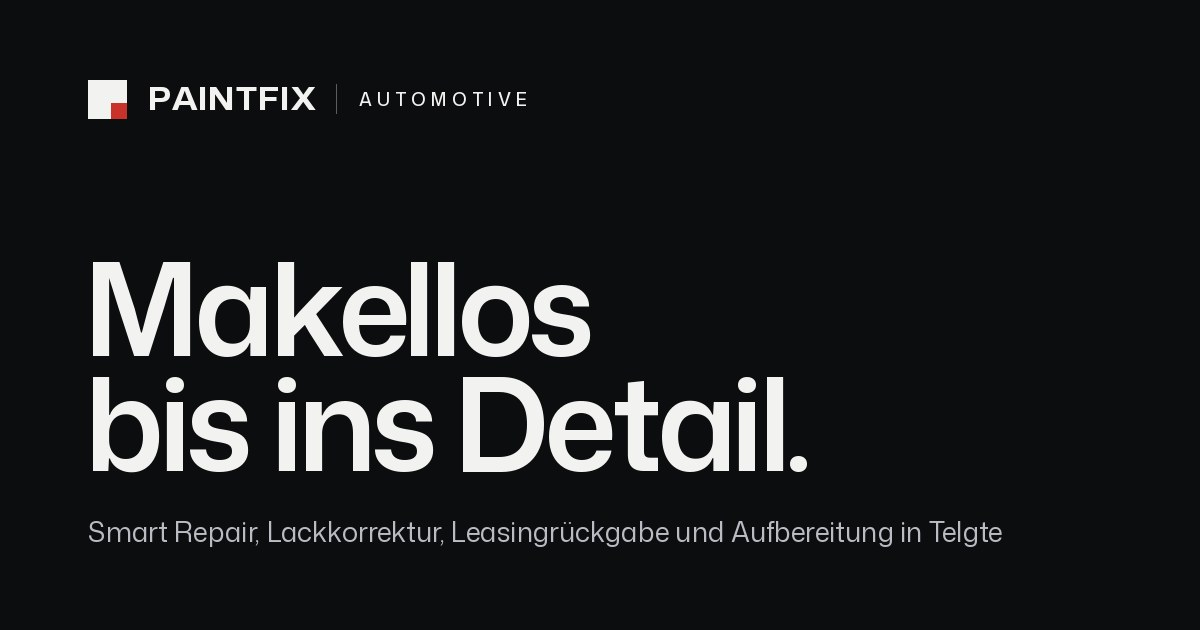
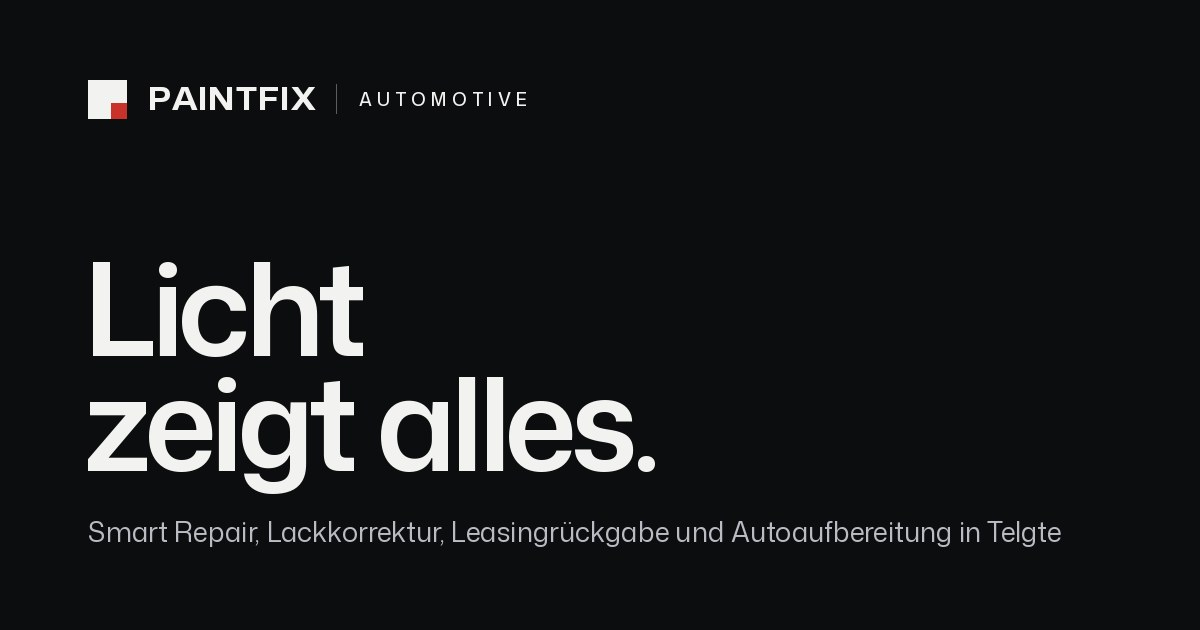
Copy and SEO pass after competitor research (Münster region)
- Use the words customers search for: Autoaufbereitung, Innenreinigung,
  Politur, Klarlack, Schadenkatalog, Nachzahlung, Gebrauchsspuren, Münster
- Meta descriptions cut to about 155 characters, titles sharpened per page
  (Lackkorrektur und Politur, Autoaufbereitung innen und außen, Preise)
- Home: new H1 "Licht zeigt alles." instead of the "Makellos" promise,
  hero text and statement in customer language; share image regenerated
- New FAQs: fingernail test for scratches, what the leasing damage
  catalogue charges, when Smart Repair is not enough, ceramic standzeit,
  what an Autoaufbereitung costs
- Remove claims beyond PaintFix's descriptions (dents in Smart Repair,
  rims in the leasing check, "Glanz über Jahre")
- Aviation: Flugzeugreinigung / aircraft cleaning in titles, shorter
  descriptions, keyword before brand in the home titles
- Test: wait for hydration before filling the request form (flaky race)

Claude-Session: https://claude.ai/code/session_01LGKKViHyALtNtq41SnGiB1

Changed region(s): [[0.0617, 0.6032, 0.6783, 0.7841], [0.0925, 0.3921, 0.4933, 0.573], [0.6475, 0.8143, 0.8942, 0.8746]]

diff --git a/content/leistungen.ts b/content/leistungen.ts
@@ -1,4 +1,5 @@
 import {
+  comboPrice,
   faq,
   focusAreas,
   INSPECT_PRICE,
@@ -68,6 +69,8 @@ export interface CarServicePage {
   media: MediaId;
 }
 
+const aussen = serviceById("aussen");
+const innen = serviceById("innen");
 const politur = serviceById("politur");
 const keramik = serviceById("keramik");
 
@@ -87,7 +90,7 @@ export const carServicePages: ReadonlyArray<CarServicePage> = [
     name: "Smart Repair",
     metaTitle: "Smart Repair in Telgte bei Münster",
     metaDescription:
-      "Smart Repair in Telgte bei Münster: Kratzer, Steinschläge, kleinere Lackschäden und Parkschäden gezielt reparieren, ohne Komplettlackierung. Festpreis nach kostenloser Begutachtung.",
+      "Smart Repair in Telgte bei Münster: Kratzer, Steinschläge und Parkschäden ausbessern, ohne das ganze Bauteil zu lackieren. Festpreis nach Begutachtung.",
     h1: "Smart Repair in Telgte.",
     intro:
       "Ein Kratzer in der Tür, ein Parkschaden an der Stoßstange, ein Steinschlag auf der Haube: Kleine Schäden reparieren wir dort, wo sie sind, statt ganze Bauteile neu zu lackieren. Das spart Zeit und Kosten, und Ihr Fahrzeug behält so viel Originallack wie möglich.",
@@ -106,7 +109,7 @@ export const carServicePages: ReadonlyArray<CarServicePage> = [
         },
         {
           t: "Steinschläge",
-          d: "Abplatzer an Haube und Front, bevor Feuchtigkeit darunter gelangt.",
+          d: "Abplatzer an Haube und Front, bevor darunter Rost ansetzt.",
         },
         {
           t: "Kleinere Lackschäden",
@@ -156,6 +159,10 @@ export const carServicePages: ReadonlyArray<CarServicePage> = [
           a: "Die betroffene Stelle wird fachgerecht geschliffen, gespachtelt, grundiert, lackiert und anschließend poliert. Der Rest des Bauteils bleibt im Originallack.",
         },
         {
+          q: "Wann reicht Smart Repair nicht?",
+          a: "Wenn große Flächen oder ganze Bauteile beschädigt sind, ist eine Lackierung des Bauteils die sauberere Lösung. Ob sich Ihr Schaden punktuell reparieren lässt, sagen wir Ihnen bei der Begutachtung.",
+        },
+        {
           q: "Lohnt sich Smart Repair vor der Leasingrückgabe?",
           a: "Oft ja, denn kleine Schäden werden bei der Rückgabe protokolliert und berechnet. Welche Reparatur sich rechnet, sehen wir bei der Begutachtung.",
         },
@@ -168,8 +175,8 @@ export const carServicePages: ReadonlyArray<CarServicePage> = [
     slug: "lackkorrektur",
     focus: "politur",
     name: "Lackkorrektur",
-    metaTitle: "Lackkorrektur in Telgte bei Münster",
-    metaDescription: `Lackkorrektur in Telgte bei Münster: ein-, zwei- oder dreistufige Politur gegen Kratzer, Hologramme, Waschspuren und matte Stellen, für Tiefenglanz und Farbtiefe. ${politur.dur.replace(/^ca\./, "Etwa")}, ab ${eur(politur.p[0])} Endpreis. Den Festpreis nennen wir nach einer kostenlosen Begutachtung.`,
+    metaTitle: "Lackkorrektur und Politur in Telgte bei Münster",
+    metaDescription: `Auto polieren lassen in Telgte bei Münster: Lackkorrektur gegen Waschkratzer, Hologramme und matten Lack. Ein- bis dreistufig, ab ${eur(politur.p[0])}, ${politur.dur.replace(/^ca\./, "etwa")}.`,
     h1: "Lack\u00ADkorrektur in Telgte.",
     intro:
       "Waschanlagen, falsche Tücher und Jahre auf der Straße hinterlassen feine Kratzer, die in der Sonne als Kreise und Schlieren sichtbar werden. Bei der Lackkorrektur polieren wir den Lack je nach Zustand ein-, zwei- oder dreistufig. So werden Kratzer, Hologramme und Waschspuren deutlich reduziert, und der Lack bekommt Tiefenglanz und Farbtiefe zurück.",
@@ -180,7 +187,7 @@ export const carServicePages: ReadonlyArray<CarServicePage> = [
       items: [
         {
           t: "Waschkratzer und Hologramme",
-          d: "Kreise und Schlieren, die in der Sonne oder unter hellem Licht sichtbar werden, meist von der Waschanlage.",
+          d: "Feine Kreise (Swirls) und Schlieren, die in der Sonne sichtbar werden, meist von der Waschanlage.",
         },
         {
           t: "Matter, stumpfer Lack",
@@ -222,6 +229,10 @@ export const carServicePages: ReadonlyArray<CarServicePage> = [
       title: "Fragen zur Lackkorrektur.",
       items: [
         {
+          q: "Lässt sich mein Kratzer auspolieren?",
+          a: "Eine Faustregel: Fahren Sie mit dem Fingernagel quer über den Kratzer. Bleibt er nicht hängen, sitzt der Kratzer meist nur im Klarlack und lässt sich oft auspolieren. Bleibt er hängen, reicht er tiefer, dann hilft Smart Repair. Sicher sagen wir es Ihnen bei der Begutachtung.",
+        },
+        {
           q: "Schadet eine Politur dem Lack?",
           a: "Beim Polieren wird eine sehr dünne Schicht Klarlack abgetragen. Deshalb wählen wir die Stufe nach dem Zustand des Lacks und polieren nur so viel wie nötig.",
         },
@@ -249,18 +260,18 @@ export const carServicePages: ReadonlyArray<CarServicePage> = [
     name: "Leasingrückgabe",
     metaTitle: "Leasingrückgabe vorbereiten in Telgte bei Münster",
     metaDescription:
-      "Vorbereitung auf die Leasingrückgabe in Telgte bei Münster: Begutachtung vor dem Rückgabetermin, Smart Repair, Lackkorrektur und Aufbereitung, Fotoprotokoll vor der Übergabe. Festpreis nach kostenloser Begutachtung.",
+      "Leasingrückgabe vorbereiten in Telgte bei Münster: Wir prüfen Ihr Auto vor dem Termin und beheben, was sich lohnt. Fotoprotokoll, Festpreis nach Begutachtung.",
     h1: "Gut vorbereitet zur Leasing\u00ADrückgabe.",
     intro:
-      "Bei der Rückgabe wird jeder Kratzer protokolliert und oft teuer berechnet. Wir sehen uns Ihr Fahrzeug vorher an, beheben, was sich lohnt, und bereiten es innen und außen auf. Was gemacht wird, entscheiden Sie nach der kostenlosen Begutachtung.",
+      "Bei der Rückgabe prüft ein Gutachter Ihr Fahrzeug nach dem Schadenkatalog des Leasinggebers. Was über normale Gebrauchsspuren hinausgeht, wird nachberechnet. Wir sehen uns Ihr Fahrzeug vorher an, beheben die Schäden, bei denen sich die Reparatur rechnet, und bereiten es innen und außen auf. Was gemacht wird, entscheiden Sie nach der kostenlosen Begutachtung.",
     offers: ["leasing"],
     offerTitle: "Umfang und Preis",
     reasons: {
       title: "Wann sich die Vorbereitung lohnt.",
       items: [
         {
-          t: "Kratzer, Dellen, Steinschläge",
-          d: "Kleine Schäden, die beim Rückgabegutachten protokolliert und berechnet würden.",
+          t: "Kratzer, Steinschläge, Lackschäden",
+          d: "Kleine Schäden, die bei der Rückgabe sonst nachberechnet würden.",
         },
         {
           t: "Stumpfer Lack, verschmutzter Innenraum",
@@ -301,12 +312,16 @@ export const carServicePages: ReadonlyArray<CarServicePage> = [
       title: "Fragen zur Leasing\u00ADrückgabe.",
       items: [
         {
+          q: "Welche Schäden werden bei der Rückgabe berechnet?",
+          a: "Das regelt der Schadenkatalog Ihres Leasinggebers. Normale Gebrauchsspuren sind in der Regel akzeptiert. Berechnet wird, was darüber hinausgeht, etwa Kratzer bis in die Grundierung, Steinschläge mit Abplatzern oder Flecken im Polster. Bringen Sie den Katalog zur Begutachtung mit, dann gehen wir ihn gemeinsam durch.",
+        },
+        {
           q: "Wann sollte ich zu Ihnen kommen?",
           a: "Am besten einige Wochen vor dem Rückgabetermin. Dann bleibt Zeit für die Begutachtung und die Arbeiten.",
         },
         {
           q: "Muss ich alle Schäden beheben lassen?",
-          a: "Nein. Nach der kostenlosen Begutachtung sagen wir Ihnen, was sich lohnt, und Sie entscheiden, was gemacht wird.",
+          a: "Nein. Nach der kostenlosen Begutachtung sagen wir Ihnen, bei welchen Schäden die Reparatur günstiger ist als die Nachzahlung. Was gemacht wird, entscheiden Sie.",
         },
         {
           q: "Bekomme ich einen Nachweis über den Zustand?",
@@ -326,14 +341,13 @@ export const carServicePages: ReadonlyArray<CarServicePage> = [
     slug: "fahrzeugaufbereitung",
     focus: "aussen",
     name: "Fahrzeugaufbereitung",
-    metaTitle: "Fahrzeugaufbereitung in Telgte bei Münster",
-    metaDescription:
-      "Fahrzeugaufbereitung in Telgte bei Münster: Außen- und Innenaufbereitung, Komplettaufbereitung und Keramikversiegelung mit Produkten von CarPro. Endpreise je Fahrzeugklasse, Festpreis nach kostenloser Begutachtung.",
+    metaTitle: "Autoaufbereitung innen und außen in Telgte bei Münster",
+    metaDescription: `Autoaufbereitung in Telgte bei Münster: Handwäsche, Innenreinigung von Polstern und Leder, Keramikversiegelung. Endpreise ab ${eur(aussen.p[0])}, Festpreis nach Begutachtung.`,
     h1: "Fahrzeug\u00ADaufbereitung in Telgte.",
     intro:
-      "Außen, innen oder mit Keramikversiegelung: Wir bereiten Ihr Fahrzeug von Hand auf, ausschließlich mit Produkten von CarPro. Wählen Sie die Leistung, die zu Ihrem Fahrzeug passt, oder kombinieren Sie Außen und Innen an einem Termin.",
+      "Autoaufbereitung von Hand: außen mit Vorwäsche und lackschonender Handwäsche, innen mit Tiefenreinigung von Polstern, Teppichen und Leder. Wenn Sie den Lack länger schützen wollen, kommt eine Keramikversiegelung dazu. Wir arbeiten ausschließlich mit Produkten von CarPro. Außen und innen lassen sich an einem Termin kombinieren, zum Komplettpreis.",
     offers: ["aussen", "innen", "keramik"],
-    dur: `${serviceById("aussen").dur.replace(" Tag", "")} bis ${keramik.dur.replace(/^ca\. /, "")}`,
+    dur: `${aussen.dur.replace(" Tag", "")} bis ${keramik.dur.replace(/^ca\. /, "")}`,
     extras: true,
     reasons: {
       title: "Welche Aufbereitung zu Ihnen passt.",
@@ -344,7 +358,7 @@ export const carServicePages: ReadonlyArray<CarServicePage> = [
         },
         {
           t: "Innenaufbereitung",
-          d: "Wenn Polster, Teppiche, Leder und Kunststoffe gründlich gereinigt und Flecken entfernt werden sollen.",
+          d: "Wenn der Innenraum gründlich gereinigt werden soll: Polster, Teppiche, Leder, Kunststoffe und Flecken.",
         },
         {
           t: "Komplettaufbereitung",
@@ -381,14 +395,21 @@ export const carServicePages: ReadonlyArray<CarServicePage> = [
     faq: {
       title: "Fragen zur Aufbereitung.",
       items: [
+        {
+          q: "Was kostet eine Autoaufbereitung?",
+          a: `Außen ab ${eur(aussen.p[0])}, innen ab ${eur(innen.p[0])}, beides an einem Termin ab ${eur(comboPrice[0])}, jeweils für einen Kleinwagen in normalem Zustand. Den Festpreis für Ihr Fahrzeug nennen wir nach der kostenlosen Begutachtung. Ohne Ihre Zustimmung wird es nicht teurer.`,
+        },
         faqDauer,
         {
           q: "Ist eine Versiegelung enthalten?",
           a: "Bei der Außenaufbereitung nicht. Sie bekommen sie auf Wunsch gegen Aufpreis. Den längsten Schutz bietet die Keramikversiegelung.",
         },
+        {
+          q: "Wie lange hält eine Keramikversiegelung?",
+          a: "Je nach Produkt bis zu einem, zwei oder drei Jahre. Welche Standzeit zu Ihnen passt, besprechen wir vor Beginn. Wie lange der Schutz tatsächlich hält, hängt auch von der Pflege ab: Handwäsche schont die Beschichtung, Bürstenwaschanlagen setzen ihr zu.",
+        },
         faqKeramik,
         faqProdukte,
-        faqAb,
       ],
     },
     related: ["politur", "smart-repair", "leasing"],

diff --git a/content/aviation-pages.ts b/content/aviation-pages.ts
@@ -82,8 +82,8 @@ export const aviationPages: Partial<Record<AvPageId, Record<Locale, AvServicePag
     de: {
       name: "Außenpflege",
       moreLabel: "Mehr zur Außenpflege",
-      metaTitle: "Flugzeug-Außenpflege für Business Jets | PaintFix Aviation",
-      metaDescription: `Trockenwäsche, Nasswäsche, Brightwork-Politur und Lackkorrektur für Business Jets. Stationiert am Flughafen ${homeDe}, mit Fotodokumentation und Fertigmeldung an Ihre Ops.`,
+      metaTitle: "Außenreinigung und Politur für Business Jets | PaintFix Aviation",
+      metaDescription: `Flugzeug-Außenreinigung für Business Jets: Trockenwäsche (Dry Wash), Nasswäsche, Brightwork-Politur und Lackkorrektur. Am Flughafen ${homeDe}, mit Fotodokumentation.`,
       h1: "Außenpflege für Business Jets.",
       intro:
         "Vom wasserlosen Waschen auf dem Vorfeld bis zur polierten Eintrittskante: Wir pflegen die Außenflächen Ihres Flugzeugs in Ihrem Zeitfenster, nach den Pflegevorgaben des Herstellers und mit Fotodokumentation.",
@@ -113,8 +113,8 @@ export const aviationPages: Partial<Record<AvPageId, Record<Locale, AvServicePag
     en: {
       name: "Exterior care",
       moreLabel: "More on exterior care",
-      metaTitle: "Aircraft exterior care for business jets | PaintFix Aviation",
-      metaDescription: `Dry wash, wet wash, brightwork polishing and paint correction for business jets. Based at ${homeEn} airport, with photo documentation and a release notice to your ops.`,
+      metaTitle: "Aircraft exterior cleaning for business jets | PaintFix Aviation",
+      metaDescription: `Exterior aircraft cleaning for business jets: dry wash, wet wash, brightwork polishing and paint correction. Based at ${homeEn} airport, with photo documentation.`,
       h1: "Exterior care for business jets.",
       intro:
         "From a waterless wash on the ramp to polished leading edges: we look after your aircraft's exterior within your time window, to the manufacturer's care guidance and with photo documentation.",
@@ -147,7 +147,7 @@ export const aviationPages: Partial<Record<AvPageId, Record<Locale, AvServicePag
       name: "Kabinenpflege",
       moreLabel: "Mehr zur Kabinenpflege",
       metaTitle: "Kabinenreinigung und Lederpflege für Business Jets | PaintFix Aviation",
-      metaDescription: `Kabinen-Grundreinigung, Lederpflege, Teppich-Tiefenreinigung, Galley und Waschraum für Business Jets. Stationiert am Flughafen ${homeDe}, diskret und nach unterschriebener Checkliste.`,
+      metaDescription: `Kabinenreinigung für Business Jets: Grundreinigung, Lederpflege, Teppich-Tiefenreinigung, Galley und Waschraum. Am Flughafen ${homeDe}, nach unterschriebener Checkliste.`,
       h1: "Kabinen\u00ADpflege für Business Jets.",
       intro:
         "Sitze, Teppiche, Galley und Waschraum: Wir reinigen und pflegen die Kabine Ihres Flugzeugs nach unterschriebener Checkliste und nach den Vorgaben der Materialhersteller. Diskret und innerhalb Ihres Turnarounds.",
@@ -173,7 +173,7 @@ export const aviationPages: Partial<Record<AvPageId, Record<Locale, AvServicePag
       name: "Cabin care",
       moreLabel: "More on cabin care",
       metaTitle: "Cabin cleaning and leather care for business jets | PaintFix Aviation",
-      metaDescription: `Deep cabin cleaning, leather care, carpet extraction, galley and lavatory for business jets. Based at ${homeEn} airport, discreet and to a signed checklist.`,
+      metaDescription: `Cabin cleaning for business jets: deep clean, leather care, carpet extraction, galley and lavatory. Based at ${homeEn} airport, to a signed checklist.`,
       h1: "Cabin care for business jets.",
       intro:
         "Seats, carpets, galley and lavatory: we clean and care for your aircraft's cabin to a signed checklist and to the material manufacturers' guidance. Discreetly, within your turnaround.",
@@ -201,7 +201,7 @@ export const aviationPages: Partial<Record<AvPageId, Record<Locale, AvServicePag
       name: "Oberflächenschutz",
       moreLabel: "Mehr zum Oberflächenschutz",
       metaTitle: "Keramikversiegelung und Oberflächenschutz für Flugzeuge | PaintFix Aviation",
-      metaDescription: `Keramikversiegelung für den Lack, Oberflächenschutz für Leder, Stoffe und Furniere und feste Pflegeintervalle je Kennzeichen. Für Business Jets, stationiert am Flughafen ${homeDe}.`,
+      metaDescription: `Keramikversiegelung für den Flugzeuglack, Schutz für Leder, Stoffe und Furniere, feste Pflegeintervalle je Kennzeichen. Für Business Jets am Flughafen ${homeDe}.`,
       h1: "Oberflächen\u00ADschutz für Business Jets.",
       intro:
         "Keramikversiegelung für den Lack, Schutzbehandlung für Leder, Stoffe und Furniere und feste Pflegeintervalle je Kennzeichen: So bleibt Ihr Flugzeug zwischen den Einsätzen länger gepflegt, und die Reinigung wird leichter.",
@@ -223,7 +223,7 @@ export const aviationPages: Partial<Record<AvPageId, Record<Locale, AvServicePag
       name: "Surface protection",
       moreLabel: "More on surface protection",
       metaTitle: "Ceramic coating and surface protection for aircraft | PaintFix Aviation",
-      metaDescription: `Ceramic coating for the paint, protection for leather, fabrics and veneers, and fixed care intervals per registration. For business jets, based at ${homeEn} airport.`,
+      metaDescription: `Aircraft ceramic coating, protection for leather, fabrics and veneers, and fixed care intervals per registration. For business jets at ${homeEn} airport.`,
       h1: "Surface protection for business jets.",
       intro:
         "Ceramic coating for the paint, protective treatment for leather, fabrics and veneers, and fixed care intervals per registration: your aircraft stays cared for longer between missions, and cleaning gets easier.",

diff --git a/components/fahrzeug/design/Home.tsx b/components/fahrzeug/design/Home.tsx
@@ -75,12 +75,12 @@ export function ConceptHero() {
             >
               <span className="block overflow-hidden pb-[0.06em]">
                 <span data-rvm="80" className="block">
-                  Makellos
+                  Licht
                 </span>
               </span>
               <span className="block overflow-hidden pb-[0.06em]">
                 <span data-rvm="190" className="block">
-                  bis ins Detail.
+                  zeigt alles.
                 </span>
               </span>
             </h1>
@@ -90,9 +90,9 @@ export function ConceptHero() {
             className="mt-[clamp(20px,3vh,32px)] flex flex-wrap items-end justify-between gap-x-10 gap-y-6"
           >
             <p className="max-w-[460px] text-[clamp(15px,1.1vw,17px)] leading-[1.6] text-pretty text-car-on-ink-soft">
-              Smart Repair, Lackkorrektur, Vorbereitung auf die Leasingrückgabe und hochwertige
-              Aufbereitung, in unserer Halle in Telgte. Nach einer kostenlosen Begutachtung kennen
-              Sie den Festpreis, bevor wir beginnen.
+              Smart Repair, Lackkorrektur, Leasingrückgabe und Autoaufbereitung innen wie außen, in
+              unserer Halle in Telgte bei Münster. Erst sehen wir uns Ihr Fahrzeug an, kostenlos.
+              Dann nennen wir einen Festpreis, bevor wir anfangen.
             </p>
             <div className="pointer-events-auto flex flex-wrap items-center gap-x-8 gap-y-4">
               <CarButton href="/anfrage" variant="light" size="cta" arrow>
@@ -115,11 +115,11 @@ export function ConceptHero() {
 /** Haltung: großer Satz, der beim Scrollen Zeile für Zeile aufleuchtet, daneben Eckdaten. */
 export function Statement() {
   const lines = [
-    "Von der Reparatur kleiner Schäden",
-    "bis zur Keramikversiegelung,",
-    "alles in einer Halle.",
-    "Einzeln oder kombiniert,",
-    "mit Festpreis vor Beginn.",
+    "Steinschlag auf der Haube,",
+    "Kratzer von der Waschanlage,",
+    "Flecken im Polster.",
+    "Wir sehen es uns an und nennen",
+    "den Preis, bevor wir anfangen.",
   ];
   const facts: Array<[string, ReactNode]> = [
     ["Halle", `${site.street}, ${site.postalCode} ${site.city}`],

diff --git a/app/(de)/(fahrzeug)/leistungen/page.tsx b/app/(de)/(fahrzeug)/leistungen/page.tsx
@@ -7,10 +7,12 @@ import { Faq } from "@/components/fahrzeug/leistungen/Faq";
 import { LeistungenStage } from "@/components/fahrzeug/design/LeistungenStage";
 import { PriceClassProvider } from "@/components/fahrzeug/leistungen/PriceClass";
 import { Services } from "@/components/fahrzeug/leistungen/Services";
+import { serviceById } from "@/content/fahrzeug";
+import { eur } from "@/lib/format";
+
 export const metadata: Metadata = {
-  title: "Leistungen und Preise",
-  description:
-    "Smart Repair, Lackkorrektur, Leasingrückgabe, Außen- und Innenaufbereitung und Keramikversiegelung in Telgte bei Münster. Alle Preise sind Endpreise. Nach einer kostenlosen Begutachtung nennen wir Ihnen den Festpreis.",
+  title: "Preise für Autoaufbereitung in Telgte bei Münster",
+  description: `Was Autoaufbereitung, Innenreinigung und Keramikversiegelung in Telgte bei Münster kosten: Endpreise ab ${eur(serviceById("aussen").p[0])}, Festpreis nach kostenloser Begutachtung.`,
   alternates: { canonical: "/leistungen" },
 };
 

diff --git a/app/(de)/(fahrzeug)/page.tsx b/app/(de)/(fahrzeug)/page.tsx
@@ -9,12 +9,13 @@ import {
   Visit,
 } from "@/components/fahrzeug/design/Home";
 import { JsonLd } from "@/components/shared/JsonLd";
+import { serviceById } from "@/content/fahrzeug";
+import { eur } from "@/lib/format";
 import { carBusiness } from "@/lib/structured-data";
 
 export const metadata: Metadata = {
   title: { absolute: "PaintFix | Fahrzeugaufbereitung in Telgte bei Münster" },
-  description:
-    "Smart Repair, Lackkorrektur, Vorbereitung auf die Leasingrückgabe und hochwertige Fahrzeugaufbereitung in Telgte bei Münster. Nach einer kostenlosen Begutachtung kennen Sie den Festpreis, bevor wir beginnen.",
+  description: `Autoaufbereitung, Smart Repair, Lackkorrektur und Leasingrückgabe in Telgte bei Münster. Kostenlose Begutachtung, Festpreis vor Beginn, Endpreise ab ${eur(serviceById("aussen").p[0])}.`,
   alternates: { canonical: "/" },
 };
 

diff --git a/app/(de)/(fahrzeug)/anfrage/page.tsx b/app/(de)/(fahrzeug)/anfrage/page.tsx
@@ -7,7 +7,7 @@ import { RequestHead } from "@/components/fahrzeug/anfrage/RequestHead";
 export const metadata: Metadata = {
   title: "Termin anfragen",
   description:
-    "Fahrzeugaufbereitung in Telgte anfragen: Leistungen und Fahrzeugklasse wählen, Richtpreis sehen. Sie erhalten innerhalb eines Werktags Terminvorschläge und nach einer kostenlosen Begutachtung einen Festpreis. Die Anfrage ist unverbindlich.",
+    "Unverbindlich anfragen: Autoaufbereitung, Smart Repair oder Lackkorrektur in Telgte. Richtpreis sofort, Terminvorschläge innerhalb eines Werktags.",
   alternates: { canonical: "/anfrage" },
 };
 

diff --git a/tests/seo-forms.spec.ts b/tests/seo-forms.spec.ts
@@ -196,6 +196,8 @@ test.describe("forms", () => {
     page,
   }) => {
     await page.goto("/anfrage");
+    // Erst nach der Hydration tippen, sonst setzt React die Felder zurück.
+    await page.waitForLoadState("networkidle");
     await page.getByRole("textbox", { name: "Name" }).fill("Erika Mustermann");
     await page.getByRole("textbox", { name: "Telefon" }).fill("0151 2345678");
     await page.getByText("Ich bin einverstanden").click();

diff --git a/app/(de)/aviation/page.tsx b/app/(de)/aviation/page.tsx
@@ -5,7 +5,7 @@ import { aviation } from "@/content/aviation";
 import { aviationBusiness } from "@/lib/structured-data";
 
 export const metadata: Metadata = {
-  title: { absolute: "PaintFix Aviation | Flugzeugaufbereitung für Business Aviation" },
+  title: { absolute: "Flugzeugaufbereitung für Business Aviation | PaintFix Aviation" },
   description: aviation.de.sub,
   alternates: {
     canonical: "/aviation",

diff --git a/app/(en)/en/aviation/page.tsx b/app/(en)/en/aviation/page.tsx
@@ -5,7 +5,7 @@ import { aviation } from "@/content/aviation";
 import { aviationBusiness } from "@/lib/structured-data";
 
 export const metadata: Metadata = {
-  title: { absolute: "PaintFix Aviation | Aircraft detailing for business aviation" },
+  title: { absolute: "Aircraft detailing for business aviation | PaintFix Aviation" },
   description: aviation.en.sub,
   alternates: {
     canonical: "/en/aviation",

diff --git a/scripts/brand-assets.py b/scripts/brand-assets.py
@@ -128,9 +128,9 @@ def og_car(out):
     img = Image.new("RGB", (W, H), CAR_INK)
     d = ImageDraw.Draw(img)
     logo(d, P, P + 22, 30, CAR_ON_INK, CAR_RED, "Automotive")
-    headline_car(d, ["Makellos", "bis ins Detail."], 128, W, P)
+    headline_car(d, ["Licht", "zeigt alles."], 128, W, P)
     sub = mona(27, 400, 100)
-    d.text((P, H - P), "Smart Repair, Lackkorrektur, Leasingrückgabe und Aufbereitung in Telgte", font=sub, fill=CAR_ON_INK_MUTED, anchor="ls")
+    d.text((P, H - P), "Smart Repair, Lackkorrektur, Leasingrückgabe und Autoaufbereitung in Telgte", font=sub, fill=CAR_ON_INK_MUTED, anchor="ls")
     img.save(out, quality=88, optimize=True, progressive=True)
 
 
@@ -184,7 +184,7 @@ for seg in (av_de, av_en):
     apple_icon(AV_CREAM, AV_NAVY, AV_GOLD, seg / "apple-icon.png")
 
 og_car(car / "opengraph-image.jpg")
-(car / "opengraph-image.alt.txt").write_text("PaintFix Automotive: Makellos bis ins Detail. Smart Repair, Lackkorrektur, Leasingrückgabe und Aufbereitung in Telgte.")
+(car / "opengraph-image.alt.txt").write_text("PaintFix Automotive: Licht zeigt alles. Smart Repair, Lackkorrektur, Leasingrückgabe und Autoaufbereitung in Telgte bei Münster.")
 og_av(av_de / "opengraph-image.jpg", "PaintFix Aviation in Münster/Osnabrück", "Jede Oberfläche,", "dokumentiert.")
 (av_de / "opengraph-image.alt.txt").write_text("PaintFix Aviation in Münster/Osnabrück: Jede Oberfläche, dokumentiert.")
 og_av(av_en / "opengraph-image.jpg", "PaintFix Aviation at Münster Osnabrück", "Every surface,", "accounted for.")
